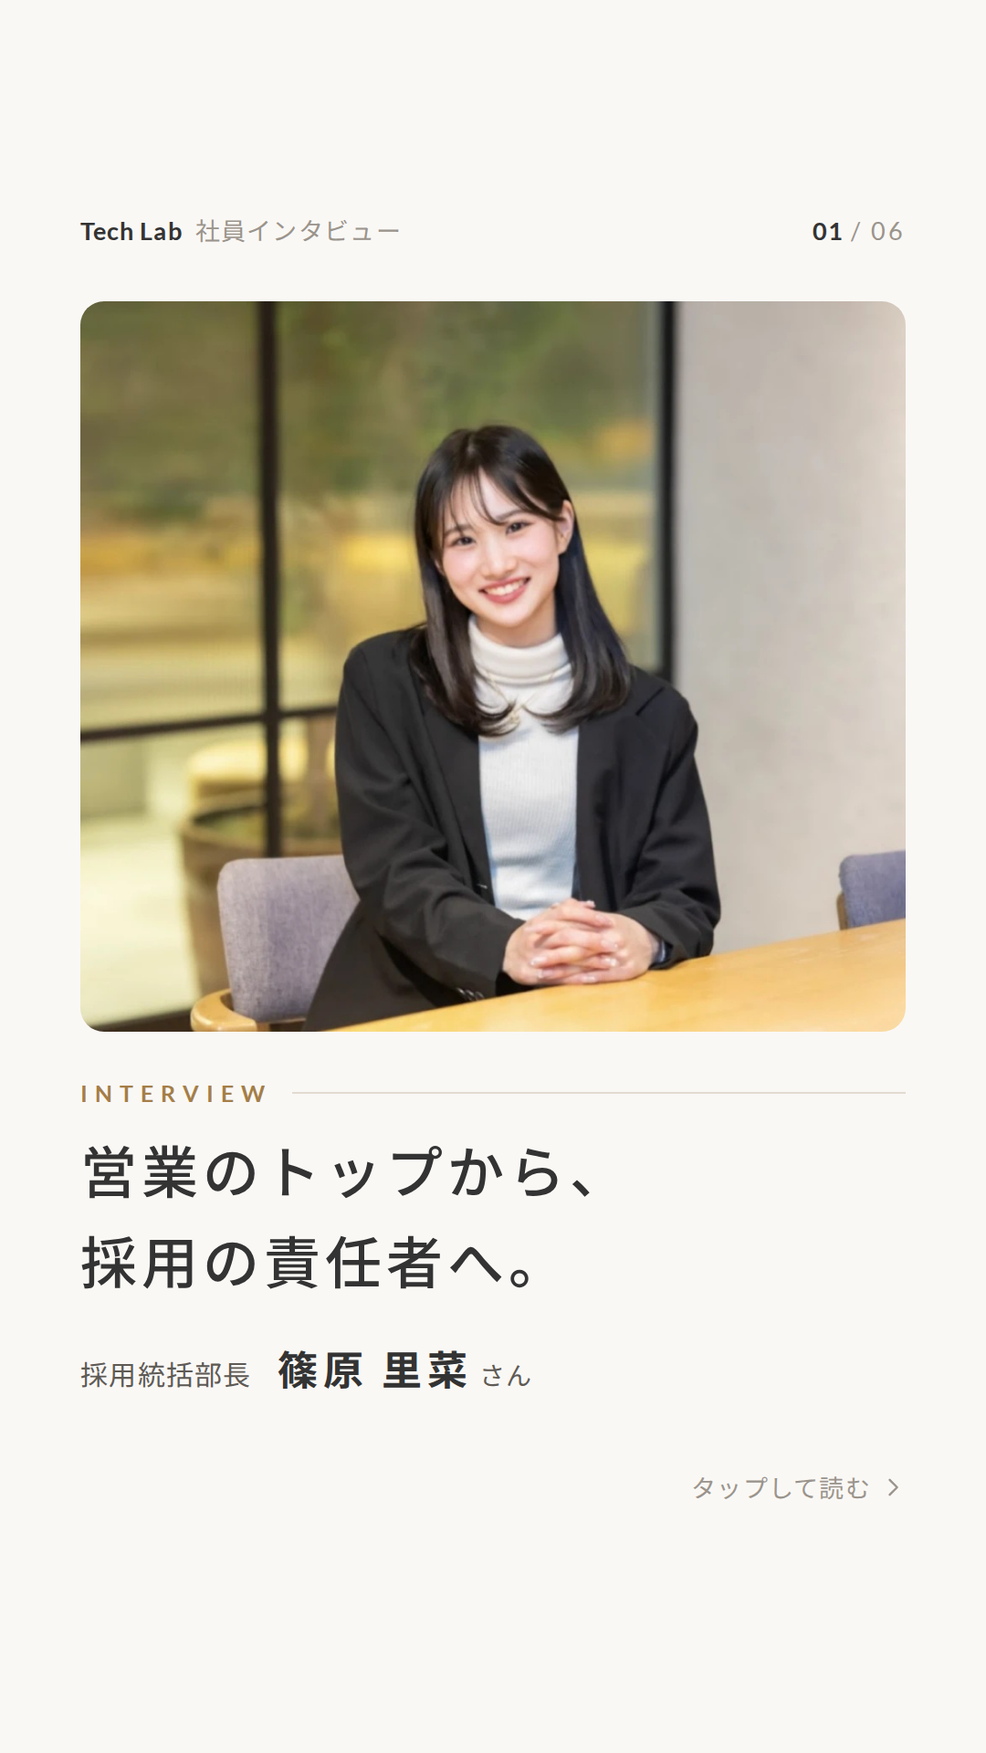
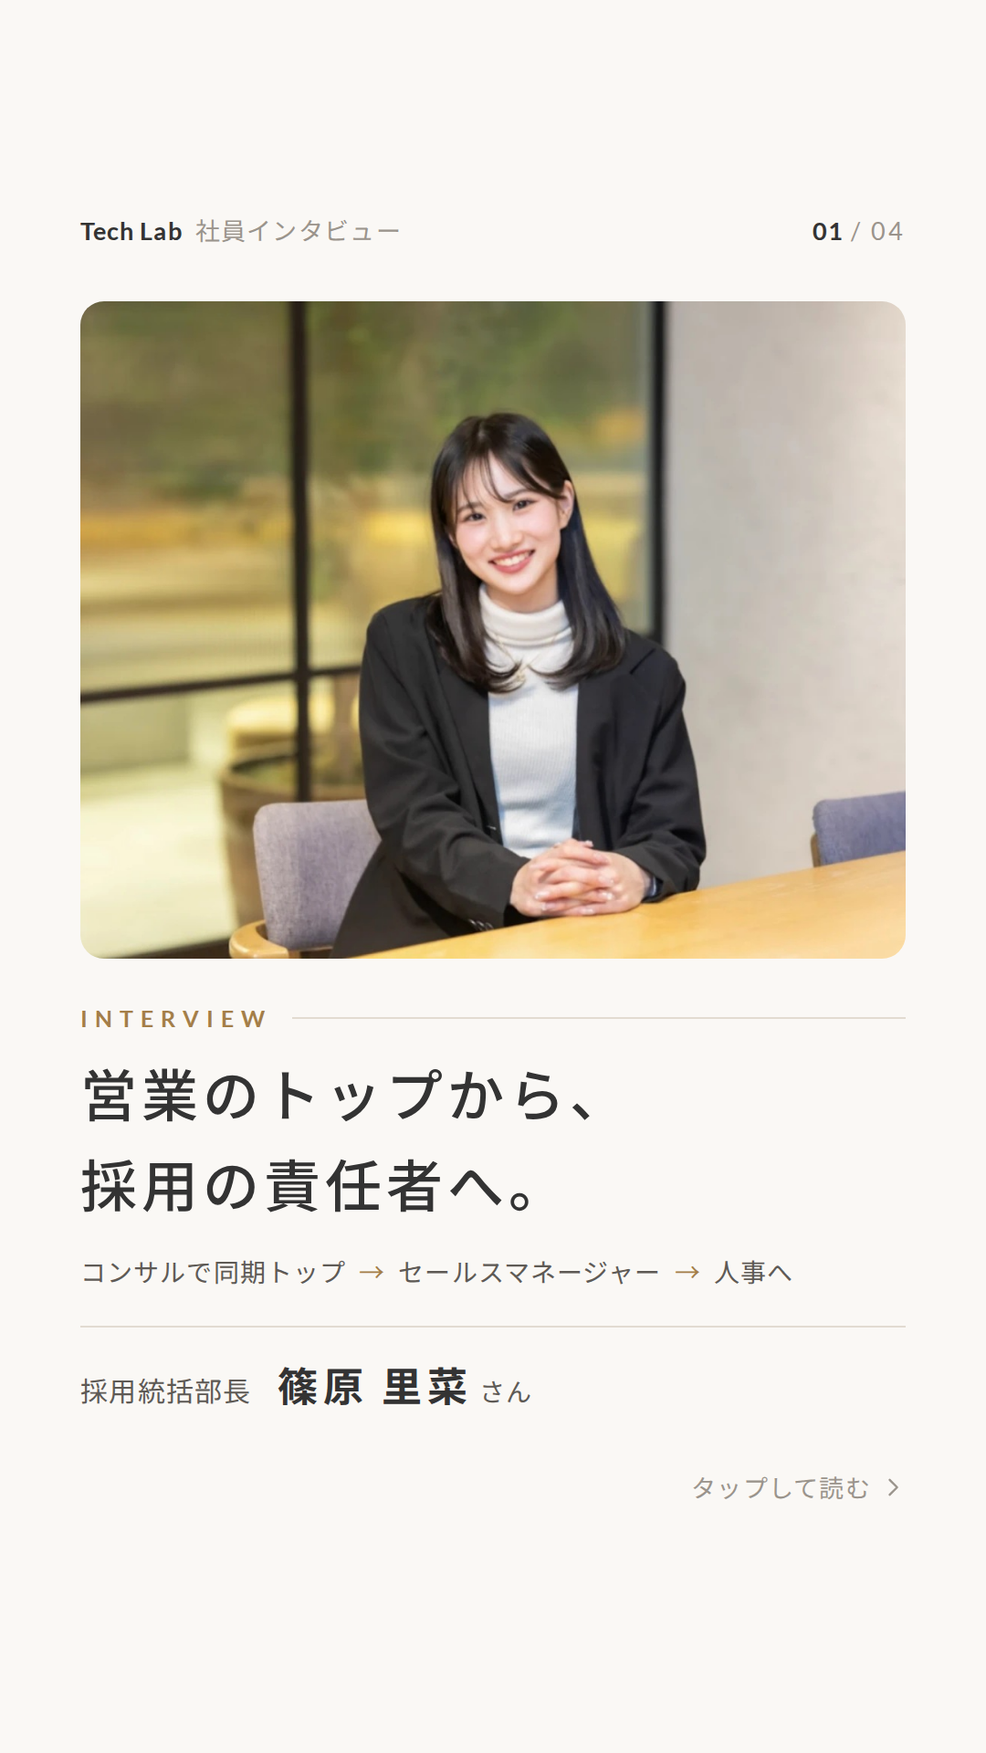
Condense the Tech Lab stories to four frames from the full interview
Cover with the career path, why she joined, how she recruits (with the
scout reply rate against the industry average), and the message to
engineers with the Green search CTA.

Claude-Session: https://claude.ai/code/session_01CUXoqmcGhs8CVRoNcj9TNQ

Changed region(s): [[0.0611, 0.1562, 0.9167, 0.8125], [0.7333, 0.7188, 0.7944, 0.75]]

diff --git a/insta-story/techlab-interview/story.html b/insta-story/techlab-interview/story.html
@@ -21,6 +21,9 @@
     --line: #E2DBD1;
     --oak: #A47E48;
     --oak-soft: rgba(196, 160, 106, .32);
+    /* scout reply-rate bars: one hue, dark = Tech Lab, light = industry average */
+    --bar-strong: #8C6A3A;
+    --bar-light: #CDB38C;
     --sans: "Lato", "Noto Sans JP", sans-serif;
   }
 
@@ -69,82 +72,82 @@
     display: flex; align-items: center; gap: 22px;
   }
   .label::after { content: ""; flex: 1; height: 2px; background: var(--line); }
-  .q { font-size: 54px; font-weight: 700; line-height: 1.6; letter-spacing: .06em; margin-top: 26px; }
+  .q { font-size: 54px; font-weight: 700; line-height: 1.6; letter-spacing: .06em; margin-top: 24px; }
   .q span { font-family: "Lato", sans-serif; color: var(--oak); margin-right: 18px; }
   .hl { background: linear-gradient(transparent 62%, var(--oak-soft) 62%); }
   .photo { border-radius: 26px; background: url("photo.jpg") no-repeat; flex: none; }
+  .avatar {
+    width: 116px; height: 116px; border-radius: 50%; flex: none;
+    background-size: 500px auto; background-position: -207px -62px;
+  }
+  .points { list-style: none; border-top: 2px solid var(--line); counter-reset: p; }
+  .points li {
+    counter-increment: p;
+    display: grid; grid-template-columns: 76px 1fr; align-items: baseline;
+    padding: 24px 0; border-bottom: 2px solid var(--line);
+    font-size: 36px; font-weight: 500; line-height: 1.55;
+  }
+  .points li::before { content: "0" counter(p); font-family: "Lato", sans-serif; font-weight: 700; font-size: 30px; color: var(--oak); }
+  .points li small { display: block; font-size: 28px; font-weight: 400; color: var(--ink-2); line-height: 1.6; margin-top: 4px; letter-spacing: .05em; }
 
   /* ---------- 01 cover ---------- */
-  .cover-photo { height: 800px; background-size: cover; background-position: 60% 30%; }
-  .cover-label { margin-top: 52px; }
-  .cover-head { font-size: 62px; font-weight: 500; line-height: 1.6; letter-spacing: .08em; margin-top: 22px; }
-  .byline { display: flex; align-items: baseline; gap: 28px; margin-top: 34px; }
+  .cover-photo { height: 720px; background-size: cover; background-position: 60% 30%; }
+  .cover-label { margin-top: 50px; }
+  .cover-head { font-size: 62px; font-weight: 500; line-height: 1.6; letter-spacing: .08em; margin-top: 20px; }
+  .path { display: flex; flex-wrap: wrap; align-items: center; gap: 10px 14px; margin-top: 24px; font-size: 28px; color: var(--ink-2); letter-spacing: .04em; }
+  .path i { font-style: normal; color: var(--oak); }
+  .byline { display: flex; align-items: baseline; gap: 28px; margin-top: 40px; padding-top: 30px; border-top: 2px solid var(--line); }
   .byline .role { font-size: 30px; color: var(--ink-2); }
   .byline .name { font-size: 44px; font-weight: 700; letter-spacing: .14em; }
   .byline .name small { font-size: 28px; font-weight: 400; color: var(--ink-2); letter-spacing: .04em; margin-left: 6px; }
 
-  /* ---------- 02 career ---------- */
-  .timeline { list-style: none; margin-top: 46px; display: flex; flex-direction: column; gap: 34px; }
-  .timeline li { position: relative; display: grid; grid-template-columns: 30px 1fr; column-gap: 34px; }
-  .timeline li::before {
-    content: ""; width: 22px; height: 22px; border-radius: 50%;
-    border: 3px solid var(--oak); background: var(--paper);
-    margin-top: 10px; margin-left: 4px;
-  }
-  .timeline li:not(:last-child)::after {
-    content: ""; position: absolute;
-    left: 14px; top: 44px; bottom: -32px;
-    width: 2px; background: var(--line);
-  }
-  .timeline li.now::before { background: var(--oak); }
-  .timeline .when { font-size: 26px; color: var(--oak); letter-spacing: .14em; }
-  .timeline .what { font-size: 42px; font-weight: 700; line-height: 1.5; margin-top: 2px; }
-  .timeline .why { font-size: 29px; color: var(--ink-2); line-height: 1.7; margin-top: 2px; letter-spacing: .06em; }
-
-  /* ---------- 03 turning point ---------- */
-  .lead { font-size: 34px; line-height: 1.95; color: var(--ink-2); margin-top: 40px; }
-  .quote { position: relative; margin-top: 70px; padding-top: 70px; }
+  /* ---------- 02 why ---------- */
+  .lead { font-size: 28px; color: var(--ink-2); margin-top: 36px; letter-spacing: .1em; }
+  .quote { position: relative; margin-top: 30px; padding-top: 62px; }
   .quote::before {
     content: "\201C";
-    position: absolute; top: -40px; left: -8px;
+    position: absolute; top: -34px; left: -8px;
     font-family: "Lato", sans-serif; font-weight: 700;
-    font-size: 200px; line-height: 1; color: var(--oak); opacity: .55;
+    font-size: 180px; line-height: 1; color: var(--oak); opacity: .5;
   }
-  .quote p { font-size: 58px; font-weight: 500; line-height: 1.7; letter-spacing: .06em; }
-  .said { display: flex; align-items: center; gap: 26px; margin-top: 50px; }
-  .avatar {
-    width: 120px; height: 120px; border-radius: 50%;
-    background-size: 520px auto; background-position: -216px -66px;
-  }
-  .said .k { font-size: 26px; color: var(--ink-2); }
-  .said .n { font-size: 36px; font-weight: 700; letter-spacing: .14em; margin-top: 4px; }
-  .after { font-size: 34px; line-height: 1.9; margin-top: 54px; padding-top: 40px; border-top: 2px solid var(--line); }
+  .quote p { font-size: 46px; font-weight: 500; line-height: 1.7; letter-spacing: .05em; }
+  .defs { margin-top: 40px; border-top: 2px solid var(--line); }
+  .defs div { display: grid; grid-template-columns: 200px 1fr; column-gap: 24px; padding: 24px 0; border-bottom: 2px solid var(--line); }
+  .defs dt { font-size: 25px; color: var(--oak); letter-spacing: .06em; line-height: 1.9; white-space: nowrap; }
+  .defs dd { font-size: 33px; line-height: 1.7; letter-spacing: .05em; }
+  .said { display: flex; align-items: center; gap: 30px; margin-top: 40px; }
+  .said p { font-size: 40px; font-weight: 700; line-height: 1.6; letter-spacing: .05em; }
 
-  /* ---------- 04 / 05 Q&A ---------- */
-  .answer { font-size: 40px; line-height: 1.85; margin-top: 40px; letter-spacing: .07em; }
-  .answer + .answer { margin-top: 18px; }
-  .note { font-size: 30px; color: var(--ink-2); margin-top: 48px; letter-spacing: .1em; }
-  .points { list-style: none; margin-top: 14px; border-top: 2px solid var(--line); counter-reset: p; }
-  .points li {
-    counter-increment: p;
-    display: grid; grid-template-columns: 76px 1fr; align-items: baseline;
-    padding: 30px 0; border-bottom: 2px solid var(--line);
-    font-size: 40px; font-weight: 500; line-height: 1.55;
-  }
-  .points li::before { content: "0" counter(p); font-family: "Lato", sans-serif; font-weight: 700; font-size: 32px; color: var(--oak); }
-  .points.tight li { padding: 12px 0; }
-  .answer.big { font-size: 44px; }
-  .points.big li { font-size: 44px; padding: 36px 0; }
-  .care { margin-top: 36px; background: var(--greige); border-radius: 24px; padding: 34px 46px 38px; }
-  .care .k { font-size: 28px; color: var(--oak); letter-spacing: .14em; }
-  .care p { font-size: 44px; font-weight: 700; line-height: 1.6; margin-top: 10px; }
+  /* ---------- 03 recruiting ---------- */
+  .answer { font-size: 44px; font-weight: 500; line-height: 1.75; margin-top: 34px; letter-spacing: .05em; }
+  .answer small { display: block; font-size: 28px; font-weight: 400; color: var(--ink-2); letter-spacing: .1em; margin-bottom: 6px; }
+  .stat { margin-top: 36px; background: var(--card); border: 2px solid var(--line); border-radius: 24px; padding: 34px 40px 36px; }
+  .stat .k { font-size: 28px; font-weight: 700; letter-spacing: .1em; }
+  .bars { display: grid; grid-template-columns: 150px 1fr; align-items: center; row-gap: 18px; margin-top: 22px; }
+  .bars dt { font-size: 27px; color: var(--ink-2); letter-spacing: .06em; }
+  .bars dd { display: flex; align-items: center; gap: 18px; }
+  /* scale: 0-36% across the track */
+  .bar { height: 34px; display: flex; gap: 2px; }
+  .bar span { height: 100%; }
+  .bar span:last-child { border-radius: 0 4px 4px 0; }
+  .bar.us span { width: calc(30 / 36 * 520px); background: var(--bar-strong); }
+  .bar.avg .lo { width: calc(10 / 36 * 520px); background: var(--bar-light); }
+  .bar.avg .hi { width: calc(5 / 36 * 520px - 2px); background: repeating-linear-gradient(135deg, var(--bar-light) 0 5px, transparent 5px 10px); }
+  .bars .v { font-family: "Lato", sans-serif; font-weight: 700; white-space: nowrap; letter-spacing: .02em; }
+  .bars .v.big { font-size: 46px; }
+  .bars .v.big small { font-family: "Noto Sans JP", sans-serif; font-size: 26px; font-weight: 500; margin-left: 2px; }
+  .bars .v.sm { font-size: 30px; color: var(--ink-2); font-weight: 400; }
+  .stat .cap { font-size: 26px; color: var(--ink-2); line-height: 1.7; margin-top: 22px; letter-spacing: .05em; }
+  .frame .points.after-stat { margin-top: 34px; }
 
-  /* ---------- 06 about + CTA ---------- */
-  .wide-photo { height: 430px; background-size: cover; background-position: 50% 26%; }
-  .vision { font-size: 50px; font-weight: 500; line-height: 1.65; margin-top: 24px; }
-  .biz { display: flex; flex-wrap: wrap; gap: 12px; margin-top: 26px; }
-  .biz span { font-size: 26px; color: var(--ink-2); border: 2px solid var(--line); border-radius: 999px; padding: 8px 22px 10px; letter-spacing: .06em; }
-  .where { font-size: 30px; color: var(--ink-2); margin-top: 52px; }
+  /* ---------- 04 message + CTA ---------- */
+  .msg-head { font-size: 54px; font-weight: 700; letter-spacing: .08em; line-height: 1.5; margin-top: 24px; }
+  .frame .points.msg { margin-top: 30px; }
+  .want { margin-top: 30px; background: var(--greige); border-radius: 24px; padding: 28px 40px 32px; }
+  .want .k { font-size: 26px; color: var(--oak); letter-spacing: .12em; }
+  .want p { font-size: 34px; font-weight: 500; line-height: 1.65; margin-top: 8px; }
+  .casual { font-size: 34px; font-weight: 500; margin-top: 40px; letter-spacing: .05em; }
+  .where { font-size: 27px; color: var(--ink-2); margin-top: 16px; }
   .search {
     margin-top: 16px;
     display: flex; align-items: center; gap: 22px;
@@ -155,7 +158,7 @@
   }
   .search svg { width: 40px; height: 40px; flex: none; }
   .search span { margin-left: auto; background: var(--ink); color: #fff; font-size: 30px; font-weight: 500; padding: 16px 34px 18px; border-radius: 999px; letter-spacing: .1em; }
-  .link-hint { margin-top: 44px; align-self: center; font-size: 30px; color: var(--oak); letter-spacing: .12em; display: flex; align-items: center; gap: 12px; }
+  .link-hint { margin-top: 30px; align-self: center; font-size: 30px; color: var(--oak); letter-spacing: .12em; display: flex; align-items: center; gap: 12px; }
   .link-hint svg { width: 32px; height: 32px; }
 </style>
 </head>
@@ -163,11 +166,12 @@
 
 <!-- 01 cover -->
 <section class="frame">
-  <div class="top"><div><b>Tech Lab</b>社員インタビュー</div><div class="count"><b>01</b> / 06</div></div>
+  <div class="top"><div><b>Tech Lab</b>社員インタビュー</div><div class="count"><b>01</b> / 04</div></div>
 
   <div class="photo cover-photo"></div>
   <div class="label cover-label">INTERVIEW</div>
   <h1 class="cover-head">営業のトップから、<br>採用の責任者へ。</h1>
+  <div class="path">コンサルで同期トップ<i>→</i>セールスマネージャー<i>→</i>人事へ</div>
   <div class="byline">
     <div class="role">採用統括部長</div>
     <div class="name">篠原 里菜<small>さん</small></div>
@@ -176,96 +180,78 @@
   <div class="next">タップして読む<svg viewBox="0 0 24 24" fill="none" stroke="currentColor" stroke-width="2" stroke-linecap="round" stroke-linejoin="round"><path d="M9 5l7 7-7 7"/></svg></div>
 </section>
 
-<!-- 02 career -->
+<!-- 02 why Tech Lab -->
 <section class="frame">
-  <div class="top"><div><b>Tech Lab</b>社員インタビュー</div><div class="count"><b>02</b> / 06</div></div>
-
-  <div class="label">CAREER</div>
-  <h2 class="q"><span>Q.</span>入社するまで、どんな<br>キャリアを歩んできた？</h2>
-
-  <ol class="timeline">
-    <li><div><div class="when">新卒</div><div class="what">セールスコンサルティング業界へ</div><div class="why">「営業力を徹底的に磨きたい」という思いから</div></div></li>
-    <li><div><div class="when">コンサル時代</div><div class="what">同期トップの成績を残す</div><div class="why">セールス戦略の設計から実行まで幅広く経験</div></div></li>
-    <li><div><div class="when">転職</div><div class="what">セールスマネージャーに</div><div class="why">チームマネジメントとメンバー育成に注力</div></div></li>
-    <li><div><div class="when">転機</div><div class="what">人事のキャリアへ</div><div class="why">働く環境が人の人生に与える影響の大きさを実感</div></div></li>
-    <li class="now"><div><div class="when">現在</div><div class="what">Tech Lab 採用統括部長</div><div class="why">エンジニア採用とキャリア支援に取り組む</div></div></li>
-  </ol>
-
-  <div class="next">次へ<svg viewBox="0 0 24 24" fill="none" stroke="currentColor" stroke-width="2" stroke-linecap="round" stroke-linejoin="round"><path d="M9 5l7 7-7 7"/></svg></div>
-</section>
-
-<!-- 03 turning point -->
-<section class="frame greige">
-  <div class="top"><div><b>Tech Lab</b>社員インタビュー</div><div class="count"><b>03</b> / 06</div></div>
-
-  <div class="label">TURNING POINT</div>
-  <p class="lead">マネージャー時代に直面したのは、成果のみを追求するあまり、コミュニケーションや個々のコンディションが軽視されがちな環境でした。</p>
-
-  <div class="quote">
-    <p>人を大切にしない組織では、<br>いかに優秀な人材が<br>集まっても、<span class="hl">事業の<br>持続的な成長は望めない</span></p>
-  </div>
-  <div class="said">
-    <div class="photo avatar"></div>
-    <div><div class="k">採用統括部長</div><div class="n">篠原 里菜</div></div>
-  </div>
-
-  <p class="after">この時抱いた強い危機感と実体験が、<br>いまの仕事の原点に。</p>
-
-  <div class="next">次へ<svg viewBox="0 0 24 24" fill="none" stroke="currentColor" stroke-width="2" stroke-linecap="round" stroke-linejoin="round"><path d="M9 5l7 7-7 7"/></svg></div>
-</section>
-
-<!-- 04 why Tech Lab -->
-<section class="frame">
-  <div class="top"><div><b>Tech Lab</b>社員インタビュー</div><div class="count"><b>04</b> / 06</div></div>
+  <div class="top"><div><b>Tech Lab</b>社員インタビュー</div><div class="count"><b>02</b> / 04</div></div>
 
   <div class="label">WHY TECH LAB</div>
-  <h2 class="q"><span>Q.</span>なぜ Tech Lab に<br>入社したの？</h2>
+  <h2 class="q"><span>Q.</span>入社を決めた理由は？</h2>
 
-  <p class="answer big">採用は、人の人生の行き先に<br>深く関わる仕事。<br>だからこそ、<span class="hl">自分が心から勧められる<br>組織</span>で働きたいと考えていました。</p>
+  <p class="lead">マネージャー時代に痛感したこと</p>
+  <div class="quote">
+    <p>人を大切にしない組織では、<br>いかに優秀な人材が集まっても、<br>事業の持続的な成長は望めない</p>
+  </div>
 
-  <div class="note">決め手になったのは</div>
-  <ol class="points big">
-    <li>代表の想いとリーダーシップ</li>
-    <li>業界の構造的な課題に<br>向き合う姿勢</li>
-  </ol>
+  <dl class="defs">
+    <div><dt>大切にしたこと</dt><dd>人事として、心から自信を持って<br>紹介できる組織で働くこと</dd></div>
+    <div><dt>決め手</dt><dd>代表との面談。フラットな人柄と、<br>業界の構造的な課題に本気で挑む姿勢</dd></div>
+  </dl>
 
-  <div class="next">次へ<svg viewBox="0 0 24 24" fill="none" stroke="currentColor" stroke-width="2" stroke-linecap="round" stroke-linejoin="round"><path d="M9 5l7 7-7 7"/></svg></div>
-</section>
-
-<!-- 05 the job -->
-<section class="frame">
-  <div class="top"><div><b>Tech Lab</b>社員インタビュー</div><div class="count"><b>05</b> / 06</div></div>
-
-  <div class="label">WORK</div>
-  <h2 class="q"><span>Q.</span>いまはどんな仕事を<br>しているの？</h2>
-
-  <p class="answer">採用統括部長として、<br><span class="hl">エンジニア採用とキャリア支援</span>に<br>取り組んでいます。</p>
-
-  <div class="note">戦略から面接まで、一貫して担当</div>
-  <ol class="points tight">
-    <li>採用戦略の立案</li>
-    <li>ターゲット設計</li>
-    <li>スカウト</li>
-    <li>面接</li>
-  </ol>
-
-  <div class="care">
-    <div class="k">大切にしていること</div>
-    <p>候補者一人ひとりに合わせた<br>コミュニケーション</p>
+  <div class="said">
+    <div class="photo avatar"></div>
+    <p><span class="hl">「この代表と一緒に、<br>理想の会社を形にしていきたい」</span></p>
   </div>
 
   <div class="next">次へ<svg viewBox="0 0 24 24" fill="none" stroke="currentColor" stroke-width="2" stroke-linecap="round" stroke-linejoin="round"><path d="M9 5l7 7-7 7"/></svg></div>
 </section>
 
-<!-- 06 about + CTA -->
+<!-- 03 how she recruits -->
 <section class="frame">
-  <div class="top"><div><b>Tech Lab</b>社員インタビュー</div><div class="count"><b>06</b> / 06</div></div>
+  <div class="top"><div><b>Tech Lab</b>社員インタビュー</div><div class="count"><b>03</b> / 04</div></div>
 
-  <div class="photo wide-photo"></div>
-  <div class="label" style="margin-top: 48px">ABOUT TECH LAB</div>
-  <p class="vision">AIの社会実装を通じて、<br><span class="hl">誰ひとり取り残さない</span>社会を<br>実現する。</p>
-  <div class="biz"><span>AIエージェント開発</span><span>AXコンサルティング</span><span>データサイエンス</span></div>
+  <div class="label">RECRUITING</div>
+  <h2 class="q"><span>Q.</span>採用でいちばん<br>大切にしていることは？</h2>
 
+  <p class="answer"><small>採用戦略からスカウト、面談まで全体をリード</small><span class="hl">「候補者一人ひとりに最適化した、<br>温度感のあるコミュニケーション」</span></p>
+
+  <div class="stat">
+    <div class="k">スカウト返信率</div>
+    <dl class="bars">
+      <dt>Tech Lab</dt>
+      <dd><div class="bar us"><span></span></div><span class="v big">30%<small>前後</small></span></dd>
+      <dt>業界平均</dt>
+      <dd><div class="bar avg"><span class="lo"></span><span class="hi"></span></div><span class="v sm">10〜15%</span></dd>
+    </dl>
+    <p class="cap">定型文は送らず、経歴や技術スタックを読み込んで自ら綴る</p>
+  </div>
+
+  <ol class="points after-stat">
+    <li>面談は「選考・評価」ではなく「対話」の場</li>
+    <li>入社はゴールではなく、新しい物語の始まり</li>
+  </ol>
+
+  <div class="next">次へ<svg viewBox="0 0 24 24" fill="none" stroke="currentColor" stroke-width="2" stroke-linecap="round" stroke-linejoin="round"><path d="M9 5l7 7-7 7"/></svg></div>
+</section>
+
+<!-- 04 message + CTA -->
+<section class="frame">
+  <div class="top"><div><b>Tech Lab</b>社員インタビュー</div><div class="count"><b>04</b> / 04</div></div>
+
+  <div class="label">MESSAGE</div>
+  <h2 class="msg-head">エンジニアのみなさんへ</h2>
+
+  <ol class="points msg">
+    <li><div>本当の「エンジニアファースト」<small>「エンジニアにとって何が一番良いか」で意思決定</small></div></li>
+    <li><div>メリハリのある働き方<small>無理な残業はなく、プライベートも大切にできる</small></div></li>
+    <li><div>案件選択の自由度<small>キャリアに合わせて選べる。生成AIなど新しい領域も</small></div></li>
+  </ol>
+
+  <div class="want">
+    <div class="k">こんな方と働きたい</div>
+    <p>自分なりの目的意識を持って、<br>エンジニアという仕事に向き合っている方</p>
+  </div>
+
+  <p class="casual">「まずはカジュアルにお話しできれば嬉しいです」</p>
   <p class="where">インタビュー全文と求人は、転職サイト Green で</p>
   <div class="search">
     <svg viewBox="0 0 24 24" fill="none" stroke="#A47E48" stroke-width="2.4" stroke-linecap="round"><circle cx="10.5" cy="10.5" r="6.5"/><path d="M15.5 15.5L21 21"/></svg>

diff --git a/insta-story/README.md b/insta-story/README.md
@@ -4,9 +4,9 @@
 
 | フォルダ | 内容 |
 | --- | --- |
-| `techlab-interview/` | 株式会社Tech Lab 社員インタビュー（採用統括部長 篠原 里菜さん）。`01.png`〜`06.png` の6枚。元記事は [Green](https://www.green-japan.com/company/11060/interview) |
+| `techlab-interview/` | 株式会社Tech Lab 社員インタビュー（採用統括部長 篠原 里菜さん）。`01.png`〜`04.png` の4枚（表紙／入社理由／採用で大切にしていること／エンジニアへのメッセージ）。元記事は [Green](https://www.green-japan.com/company/11060/interview) |
 
-上から約250px（アカウント名などが重なる）と下から約330px（返信欄が重なる）には文字を置いていません。6枚目の「↓ 求人はリンクから」の下に、Instagram のリンクスタンプを置いてください。
+上から約250px（アカウント名などが重なる）と下から約330px（返信欄が重なる）には文字を置いていません。4枚目の「↓ 求人はリンクから」の下に、Instagram のリンクスタンプを置いてください。
 
 ## 画像の作り直し方
 
@@ -19,7 +19,7 @@ npm run story -- insta-story/techlab-interview/story.html
 
 文字が返信欄の位置まではみ出すと、ビルドはエラーで止まります。
 
-写真は `photo.jpg`（Green のインタビュー記事の写真）を、1・3・6枚目で切り抜き位置を変えて使っています。差し替えるときは同じ名前で上書きして作り直してください。
+写真は `photo.jpg`（Green のインタビュー記事の写真）を、1枚目と2枚目（丸いアイコン）で切り抜き位置を変えて使っています。差し替えるときは同じ名前で上書きして作り直してください。
 
 デザインは Green の記事ページに合わせています（生成りの背景、チャコールの文字、写真のテーブルから取った木目色のアクセント、字間を広めにとった細めの書体）。
 
